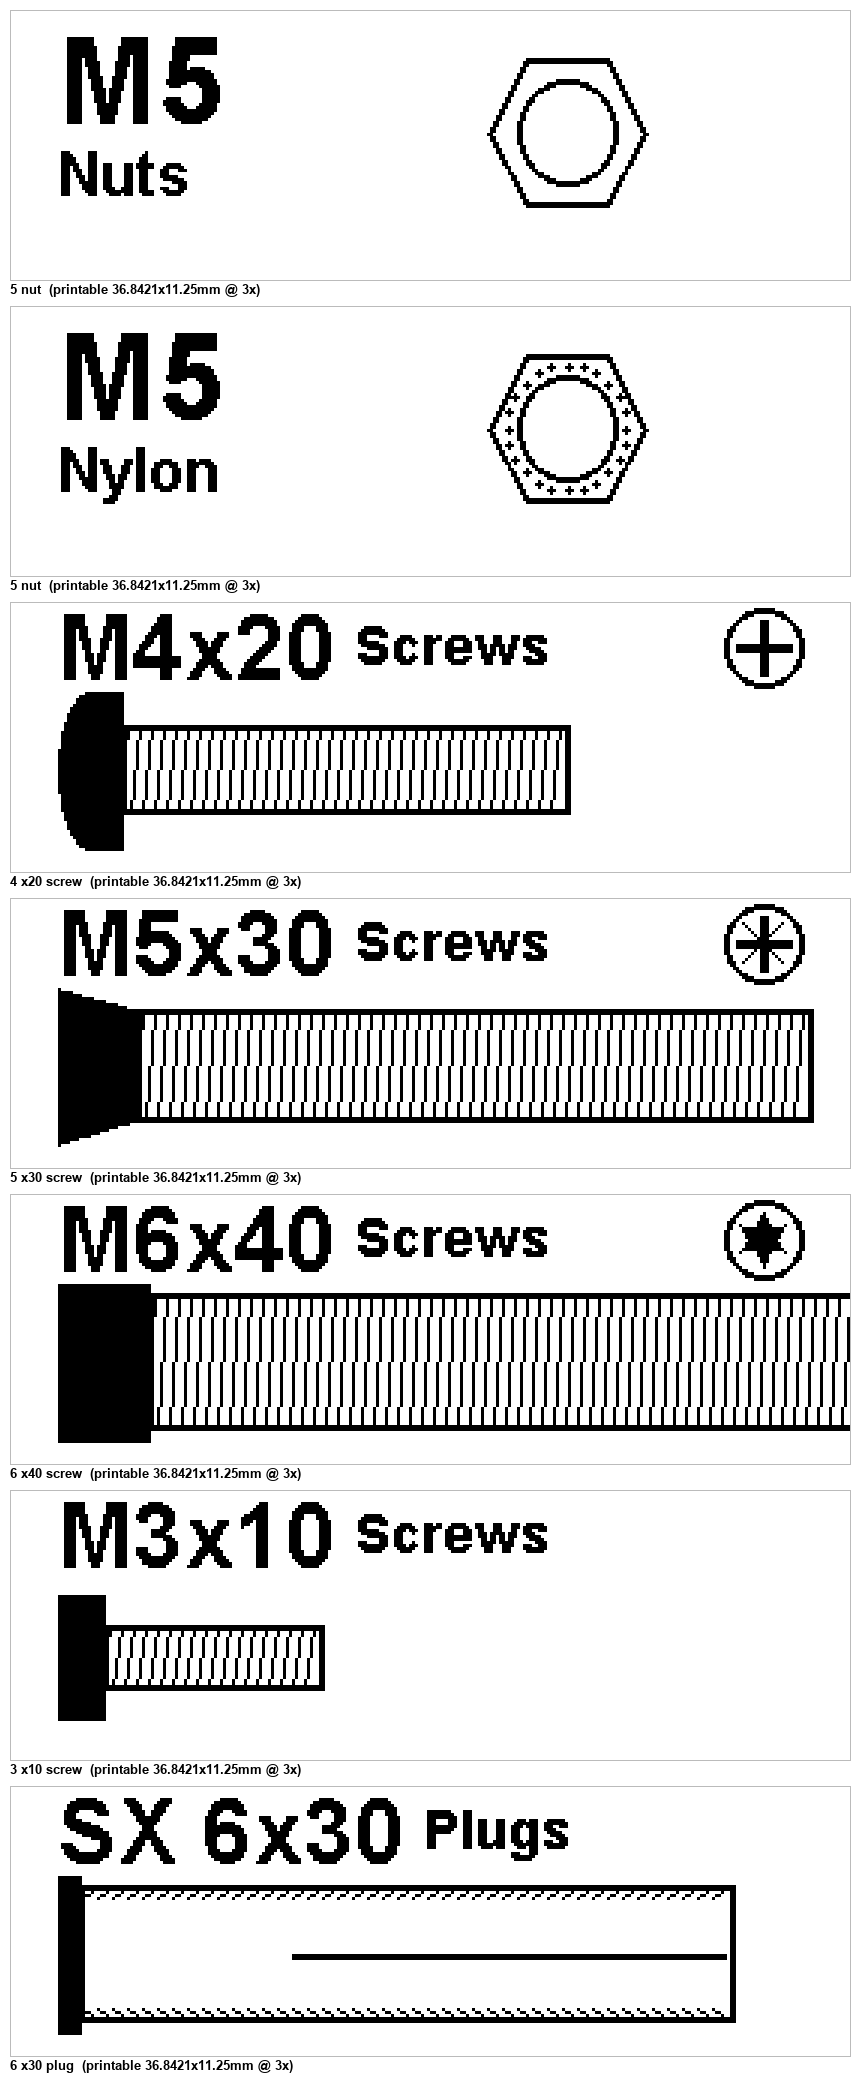
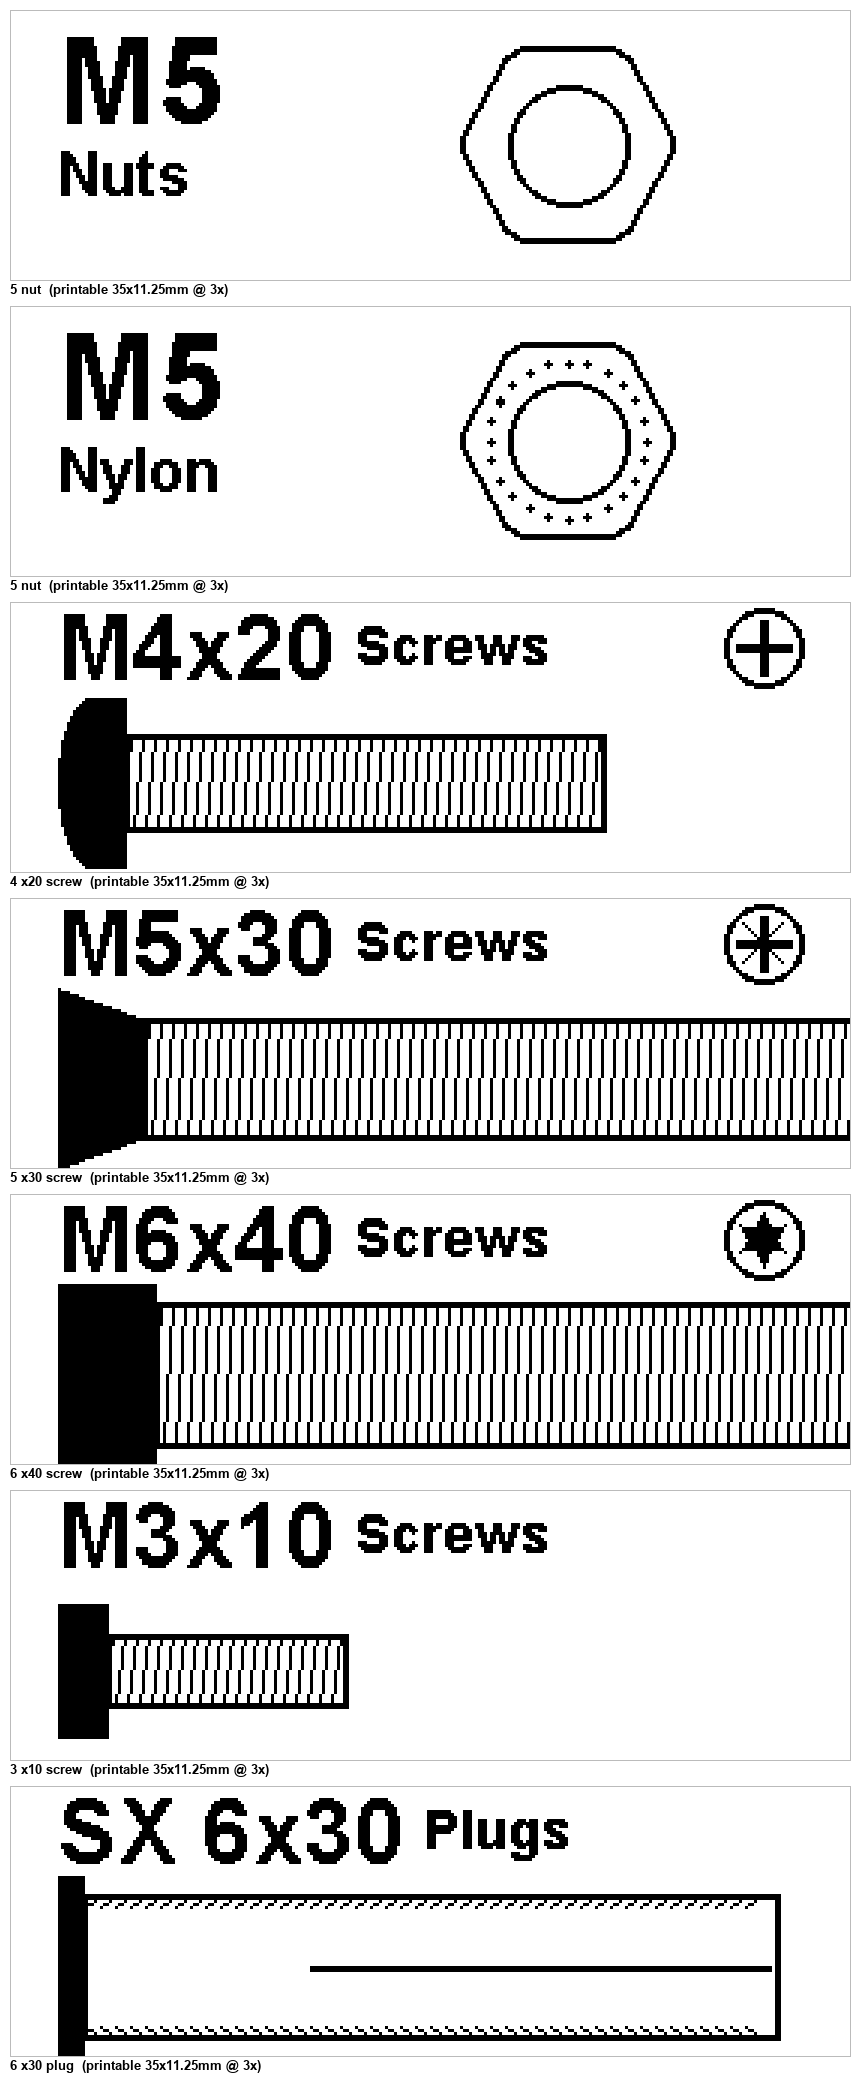
disable TiMini margin trimming, and drop every calibration constant
TiMini trims white margins by default and scales what remains to fill the paper.
These stickers are mostly deliberate white space, so every one was stretched - by
a different factor each time, depending on how much white that label had. Caught
by intercepting the raster actually sent: an M6 nut drawn 76 px across the flats
was arriving as 90 dots, 11.25 mm instead of 9.5. With trimming off it arrives as
76 dots, exactly the PNG.

That one default explains every sizing problem chased so far, and every constant
added to correct for one was compensating for a distortion that varied per label.
All of them are now gone:

- print.py passes --no-trim-side-margins --no-trim-top-bottom-margins
- FEED_CAL / FEED_DPMM removed; both axes are simply DPMM, so the anisotropic
  drawing collapses and _arc_pts takes one radius
- NUT_SCALE removed; nuts are nominal ISO again
- LINE_BLEED removed; verified on paper that an M3 nut and M3x8 screw measure
  right with no compensation at all
- BOT removed; content is centred on the full label height

What is left is two printer facts (DPMM, W/H - both in TiMini's model data), ISO
dimension tables, the nut corner chamfer, and layout. Nothing fitted.

diff --git a/gen.py b/gen.py
@@ -1,8 +1,12 @@
 """Generate actual-size nut / screw / wall-plug organisation stickers.
 
-Sized for a 12 x 40 mm thermal label on the Orgstra S001: the printable area is
-280 x 90 dots at 8 dot/mm, so a fastener is drawn 1 px per dot and comes off the
-printer true to size. Anything bigger than the label runs off the edge and is cut.
+Everything is drawn at nominal ISO size, 1 px per dot, so it comes off the printer
+true to size. That needs only two facts about the printer — its head resolution
+(DPMM) and its printable area (W, H) — both of which TiMini already knows per
+model. There are no calibration fudge factors; if a print measures wrong, the
+cause is upstream (see the margin-trimming note in print.py), not here.
+
+Anything bigger than the label runs off the edge and is cut, by design.
 """
 from __future__ import annotations
 import math
@@ -10,29 +14,20 @@ from string import ascii_uppercase
 from PIL import Image, ImageDraw, ImageFont
 
 # ---------------------------------------------------------------- geometry ---
+# The only printer-specific values. For the Orgstra S001: a 203 dpi head, and a
+# 12 x 40 mm label whose printable area is 280 x 90 dots — the head is 96 dots but
+# the protocol reserves a 6-dot pad, and the label's first ~5 mm is a feed dead
+# zone. Both are in TiMini's printer_models / printer_paper_presets data.
 
 DPMM = 8                                 # print head resolution, dots per mm
 W, H = 280, 90                           # printable label, length x head, in dots
 BLACK, WHITE = 0, 1
 
-# The paper advance runs slightly slower than the head, so the length axis is
-# drawn at FEED_CAL x DPMM. Calibrated from two printed features that bracket the
-# thermal bleed: a nut hole (inner edge, bleed shrinks it) drawn 67.4 px measured
-# 8.4 mm, and a screw shaft (outer edge, bleed grows it) drawn 96 px measured
-# 13.0 mm. To recalibrate, print a screw and measure the shaft:
-#     FEED_CAL = nominal_mm / (measured_mm - LINE_BLEED / DPMM)
-FEED_CAL = 0.95
-FEED_DPMM = DPMM * FEED_CAL              # dots per mm along the label length
-LEN_MM, HEAD_MM = W / FEED_DPMM, H / DPMM        # 36.8 x 11.25 mm printable
+LEN_MM, HEAD_MM = W / DPMM, H / DPMM     # 35 x 11.25 mm printable
 
-# A 2-px outline plus thermal bleed adds this much to any edge-measured size.
-# Outer edges (shaft, hex flats) are drawn smaller by it, inner edges (the nut
-# hole) larger, so both measure true on paper.
-LINE_BLEED = 3
-
+# Layout, in dots. Tuned by eye for a 90-dot-tall label; a very different label
+# would want these and the font sizes adjusted to suit.
 PAD = 2 * DPMM        # left/right margin
-BOT = 8               # bottom breathing room; the protocol top-pad shifts
-                      # everything down, so content this close would clip
 BAND_TOP = 30         # top of the drawing band, below the title row
 NUT_CENTRE_FRAC = 1 / 3   # nut centre sits this far in from the right edge, as a
                           # fraction of the length: right-aligning put small nuts
@@ -48,17 +43,17 @@ WAF = {1: 2.5, 1.6: 3.2, 2: 4, 2.5: 5, 3: 5.5, 4: 7, 5: 8, 6: 10,
 HEX_BOLT = {2: (4, 1.4), 2.5: (5, 1.7), 3: (5.5, 2.0), 4: (7, 2.8), 5: (8, 3.5),
             6: (10, 4.0), 8: (13, 5.3), 10: (17, 6.4), 12: (19, 7.5), 16: (24, 10.0)}
 
-# A hex drawn to ISO reads larger than the real nut held against it: the outline
-# sits outside the shape, thermal bleed thickens it, and the drawn corners are
-# sharp where a real nut's are chamfered. Scaled down rather than offset by a
-# fixed amount, which at M2 would leave the hex no bigger than its own hole.
-# Anchored on M6 measured against real nuts: 10 mm flats drawn as 8.
-NUT_SCALE = 0.8
+# A real nut's corners are chamfered: ISO 4032 gives the across-corners size e as
+# ~1.1055 x the flats, where a sharp hexagon would be 1.1547 x. Drawing the
+# chamfer (a 12-gon: six flats, six corner cuts) keeps the outline true in both
+# directions instead of overhanging by 4% at the corners.
+CHAMFER_RADIUS = 1.1088   # vertex distance, in units of half the flats
+CHAMFER_ANGLE = 4.407     # vertex offset either side of each corner, degrees
 
 
 def nut_waf(m: float) -> float:
-    """Drawn nut width across flats (mm), extrapolated outside the table."""
-    return WAF.get(m, m * 1.6) * NUT_SCALE
+    """Nut width across flats (mm), extrapolated for sizes outside the table."""
+    return WAF.get(m, m * 1.6)
 
 
 def bolt_head(m: float) -> tuple[float, float]:
@@ -98,35 +93,27 @@ def _font(px: int) -> ImageFont.FreeTypeFont:
     return ImageFont.load_default()
 
 
-def _arc_pts(cx, cy, angles, rx, ry):
-    """Points at the given angles (degrees) on an ellipse of radii rx, ry px.
-    Round features use rx > ry so they print circular despite the slower feed."""
-    return [(cx + rx * math.cos(math.radians(a)), cy + ry * math.sin(math.radians(a)))
+def _arc_pts(cx, cy, angles, r):
+    """Points at the given angles (degrees) on a circle of radius r px."""
+    return [(cx + r * math.cos(math.radians(a)), cy + r * math.sin(math.radians(a)))
             for a in angles]
 
 
-def _mm_arc_pts(cx, cy, angles, r_mm):
-    """As _arc_pts, but with the radius given in mm and scaled per axis."""
-    return _arc_pts(cx, cy, angles, r_mm * FEED_DPMM, r_mm * DPMM)
-
-
 def draw_nut(d: ImageDraw.ImageDraw, cx, cy, m, nylon=False):
-    """Hex nut, face on. Hex and hole are both scaled by NUT_SCALE so the icon
-    stays in proportion. The outline is an outer edge and the hole an inner one,
-    so bleed is compensated in opposite directions."""
-    waf, hole = nut_waf(m), m * NUT_SCALE
-    circumradius = (waf - LINE_BLEED / DPMM) / 2 / math.cos(math.radians(30))
-    d.polygon(_mm_arc_pts(cx, cy, range(0, 360, 60), circumradius), outline=BLACK, width=2)
+    """Hex nut, face on, at true ISO size."""
+    waf = nut_waf(m)
+    corners = [60 * k + off for k in range(6)
+               for off in (-CHAMFER_ANGLE, CHAMFER_ANGLE)]
+    d.polygon(_arc_pts(cx, cy, corners, waf * DPMM / 2 * CHAMFER_RADIUS),
+              outline=BLACK, width=2)
 
-    # Radii keep the FEED_DPMM:DPMM ratio so the hole prints round; the bleed
-    # term is a dot-level effect and so is the same on both axes.
-    rx = (hole / 2) * FEED_DPMM + LINE_BLEED / 2
-    ry = (hole / 2) * DPMM + LINE_BLEED / 2
-    d.ellipse([cx - rx, cy - ry, cx + rx, cy + ry], outline=BLACK, width=2)
+    hole_r = m * DPMM / 2
+    d.ellipse([cx - hole_r, cy - hole_r, cx + hole_r, cy + hole_r],
+              outline=BLACK, width=2)
 
     if nylon:
         # nyloc insert: a dotted ring between hole and hex, which reads as grey
-        for x, y in _mm_arc_pts(cx, cy, range(0, 360, 15), (hole / 2 + waf / 2) / 2):
+        for x, y in _arc_pts(cx, cy, range(0, 360, 15), (m + waf) / 4 * DPMM):
             d.ellipse([x - 1, y - 1, x + 1, y + 1], fill=BLACK)
 
 
@@ -140,10 +127,10 @@ def draw_screw(d: ImageDraw.ImageDraw, x0, cy, m, length_mm, band_h, shape="hex"
         csk - flat outer face, tapering into the shaft (countersunk)
     """
     s, k = bolt_head(m)
-    head_w = k * FEED_DPMM
-    head_h = min(s * DPMM - LINE_BLEED, band_h)
-    shaft_h = min(m * DPMM - LINE_BLEED, band_h - 4)
-    shaft_len = length_mm * FEED_DPMM - LINE_BLEED
+    head_w = k * DPMM
+    head_h = min(s * DPMM, band_h)
+    shaft_h = min(m * DPMM, band_h - 4)
+    shaft_len = length_mm * DPMM
     ht, hb = cy - head_h / 2, cy + head_h / 2          # head top/bottom
     st, sb = cy - shaft_h / 2, cy + shaft_h / 2        # shaft top/bottom
 
@@ -164,10 +151,10 @@ def draw_screw(d: ImageDraw.ImageDraw, x0, cy, m, length_mm, band_h, shape="hex"
 def draw_plug(d: ImageDraw.ImageDraw, x0, cy, dia_mm, length_mm, band_h):
     """Wall plug side profile: a collar at the wall face, a ribbed expansion
     sleeve and the expansion slot. Drawn like a screw shaft, with no head."""
-    body_h = min(dia_mm * DPMM - LINE_BLEED, band_h - 4)
-    total = length_mm * FEED_DPMM - LINE_BLEED       # the collar is part of it
-    collar_w = max(3.0, 1.0 * FEED_DPMM)             # ~1 mm lip
-    collar_h = min(dia_mm * 1.3 * DPMM - LINE_BLEED, band_h)
+    body_h = min(dia_mm * DPMM, band_h - 4)
+    total = length_mm * DPMM               # the collar is part of it
+    collar_w = 1.0 * DPMM                  # 1 mm lip
+    collar_h = min(dia_mm * 1.3 * DPMM, band_h)
     top, bot = cy - body_h / 2, cy + body_h / 2
 
     d.rectangle([x0, cy - collar_h / 2, x0 + collar_w, cy + collar_h / 2], fill=BLACK)
@@ -187,7 +174,7 @@ def draw_drive(d: ImageDraw.ImageDraw, cx, cy, r, kind):
     ir = r - 4                                                           # recess
 
     if icon == "hex":
-        d.polygon(_arc_pts(cx, cy, range(30, 360, 60), ir, ir), outline=BLACK, width=2)
+        d.polygon(_arc_pts(cx, cy, range(30, 360, 60), ir), outline=BLACK, width=2)
     elif icon in ("cross", "pozi"):
         d.line([cx - ir, cy, cx + ir, cy], fill=BLACK, width=3)
         d.line([cx, cy - ir, cx, cy + ir], fill=BLACK, width=3)
@@ -198,10 +185,8 @@ def draw_drive(d: ImageDraw.ImageDraw, cx, cy, r, kind):
     elif icon == "slot":
         d.line([cx - ir, cy, cx + ir, cy], fill=BLACK, width=3)
     elif icon == "torx":                         # solid 6-point star
-        pts = []
-        for i in range(12):
-            rr = ir if i % 2 == 0 else ir * 0.5
-            pts += _arc_pts(cx, cy, [i * 30 - 90], rr, rr)
+        pts = [p for i in range(12)
+               for p in _arc_pts(cx, cy, [i * 30 - 90], ir if i % 2 == 0 else ir * 0.5)]
         d.polygon(pts, fill=BLACK)
     elif icon == "square":
         h = ir * 0.8
@@ -221,18 +206,17 @@ def make_label(kind: str, m: float, length: float | None = None,
                shape: str = "hex", drive: str | None = None) -> Image.Image:
     img = Image.new("1", (W, H), WHITE)
     d = ImageDraw.Draw(img)
-    cy = (H - BOT) // 2
 
     if kind == "nut":
         # size and variant stacked tight on the left, hex face on the right
         d.text((PAD, 1), f"M{m:g}", font=_font(40), fill=BLACK)
         d.text((PAD, 43), "Nylon" if shape == "nylon" else "Nuts",
                font=_font(20), fill=BLACK)
-        draw_nut(d, int(W - NUT_CENTRE_FRAC * W), cy, m, nylon=(shape == "nylon"))
+        draw_nut(d, int(W - NUT_CENTRE_FRAC * W), H // 2, m, nylon=(shape == "nylon"))
         return img
 
     # screws and plugs: title row on top, fastener centred in the band below
-    band_cy, band_h = (BAND_TOP + H - BOT) // 2, H - BOT - BAND_TOP
+    band_cy, band_h = (BAND_TOP + H) // 2, H - BAND_TOP
     if kind == "plug":
         _title_row(d, f"{shape + ' ' if shape else ''}{m:g}x{length:g}", "Plugs")
         draw_plug(d, PAD, band_cy, m, length, band_h)
@@ -313,9 +297,7 @@ def describe(spec) -> str:
     kind, m, length, shape, drive = spec
     if kind == "nut":
         variant = " nyloc" if shape == "nylon" else ""
-        # the real nut being labelled, not the NUT_SCALE-reduced drawing
-        return (f"M{m:g}{variant} nut: hex WAF {WAF.get(m, m * 1.6):g} mm, "
-                f"hole Ø{m:g} mm, drawn at {NUT_SCALE:g}x")
+        return f"M{m:g}{variant} nut: hex WAF {nut_waf(m):g} mm, hole Ø{m:g} mm"
     if kind == "plug":
         return (f"{shape + ' ' if shape else ''}{m:g}x{length:g}: "
                 f"wall plug, Ø{m:g}x{length:g} mm")

diff --git a/print.py b/print.py
@@ -52,8 +52,12 @@ class Printer:
         if idle > 0:
             time.sleep(idle)
         # TiMini runs with cwd in its own checkout, so pass an absolute path.
+        # Trimming is ON by default: it crops the white margin off the label and
+        # scales what's left to fill the paper, by a different factor for every
+        # sticker. That silently destroys true-size printing, so it must be off.
         cmd = [sys.executable, "-m", "timiniprint", "--serial", self.serial,
                "--printer-model", self.model, "--paper", self.paper,
+               "--no-trim-side-margins", "--no-trim-top-bottom-margins",
                os.path.abspath(png)]
         try:
             return subprocess.run(cmd, cwd=self.timini).returncode == 0

diff --git a/README.md b/README.md
@@ -9,10 +9,11 @@ on an Orgstra **S001** (Xinye) label printer via
 
 ![examples](examples/preview.png)
 
-> **Note:** the sizing (dot pitch, feed calibration, bleed compensation, printable
-> area) is tuned for the **Orgstra S001**. On other printers the fasteners may come
-> out slightly off — adjust `FEED_CAL`, `DPMM`, `LINE_BLEED`, and the `W`/`H`
-> printable size at the top of `gen.py`, and measure your first sticker.
+> **Other printers:** the only printer-specific values are the head resolution
+> (`DPMM`) and the printable area (`W`, `H`) at the top of `gen.py` — both of which
+> TiMini already knows per model. Set those and the drawings are correct; there are
+> no calibration constants to tune. The layout and font sizes are eyeballed for a
+> 90-dot-tall label, so a very different label shape would want those adjusted too.
 
 ## What it does
 
@@ -20,18 +21,18 @@ on an Orgstra **S001** (Xinye) label printer via
   width-across-flats, screws and wall plugs by real Ø × length. Optional head
   shapes, drive icons, a nyloc variant and a plug kind. Anything larger than the
   label runs off the edge and gets cut — by design.
-- **`print.py`** — prints a folder of stickers on the S001 through the TiMini CLI:
-  one test sticker, you approve, then it prints the rest.
+- **`print.py`** — prints a folder of stickers on the S001 through the TiMini CLI,
+  one at a time, waiting for you between each.
 
-The head axis prints at **8 dot/mm**; the S001's paper advance runs slightly long
-(~7.6 dot/mm), so the generator draws the length axis at `FEED_CAL × 8` and leaves
-the unused label length white. Printed edges also bleed about `LINE_BLEED` (0.375 mm),
-which grows outer dimensions and shrinks inner ones, so both are compensated.
+Both axes print at **8 dot/mm**, so a sticker is drawn 1 px per dot at nominal ISO
+size and the unused label length is left white. No scaling, no fudge factors — if a
+print measures wrong, something upstream is rescaling it:
 
-To calibrate a different printer: print a screw, measure the shaft from the head
-underside to the tip, and set
-
-    FEED_CAL = nominal_mm / (measured_mm - LINE_BLEED / DPMM)
+> **Margin trimming must be off.** TiMini trims white margins by default and scales
+> what's left to fill the label — a different factor for every sticker, since each
+> has a different amount of white. That silently destroys true-size printing.
+> `print.py` passes `--no-trim-side-margins --no-trim-top-bottom-margins`; if you
+> print these PNGs by any other route, pass them yourself.
 
 ## Install
 
@@ -103,25 +104,24 @@ README for pairing).
 
 | Item | Standard |
 |------|----------|
-| Nut hex width-across-flats | ISO 4032 (M3 = 5.5, M4 = 7, M5 = 8, M6 = 10, M8 = 13 mm …), drawn at `NUT_SCALE` |
+| Nut hex width-across-flats | ISO 4032 (M3 = 5.5, M4 = 7, M5 = 8, M6 = 10, M8 = 13 mm …) |
+| Nut across-corners | ISO 4032 `e` — the corners are chamfered, not sharp |
 | Bolt head (WAF × height) | ISO 4017 |
-| Shaft Ø | nominal M-size (edge-measured, bleed-compensated) |
+| Shaft Ø | nominal M-size |
 | Shaft length | the mm value you give (`M5x50` → 50 mm) |
 | Wall plug Ø × length | the values you give (`SX6x30` → Ø6 × 30 mm, collar included) |
 
-Nuts are the exception to true-size: an outlined hex reads bigger than the nut you
-hold against it, because the line sits outside the shape, thermal bleed thickens it
-and the drawn corners are sharp where a real nut's are chamfered. So nuts are drawn
-at `NUT_SCALE` (0.8) — hex and hole together, keeping the proportions of the real
-nut. Raise it toward 1.0 if your printer bleeds less.
+Everything is drawn at nominal size, with no compensation of any kind. Note that nut
+tolerance is one-sided — ISO 4032 allows 9.78–10.00 mm across the flats for M6 — so a
+real nut measures a little under the drawing. Scale `WAF` in `gen.py` if you'd rather
+match your own stock.
 
-For screws the identifying dimensions — **shaft Ø × length** — do print true size;
-the head is a visual cue (drawn ISO hex-bolt size, ~5.5 mm across for M3, and varies in reality
-by head type). The printable area is **36.8 × 11.25 mm** (the S001 head is 12 mm but
-the protocol reserves 6 dots; the label's first ~5 mm is a dead zone), so a nut
-wider than 11.25 mm or a screw longer than ~34 mm runs off the edge — intentional.
-Keep the `tag_90r_90p` preset and, on a new printer, measure your first sticker and
-tune `FEED_CAL` in `gen.py` if the length is off.
+For screws the identifying dimensions — **shaft Ø × length** — print true size; the
+head is a visual cue (drawn ISO hex-bolt size, ~5.5 mm across for M3, and varies in
+reality by head type). The printable area is **35 × 11.25 mm** (the S001 head is
+12 mm but the protocol reserves 6 dots; the label's first ~5 mm is a dead zone), so
+a nut wider than 11.25 mm or a screw longer than ~34 mm runs off the edge —
+intentional. Keep the `tag_90r_90p` preset, and keep margin trimming off.
 
 ## Requirements
 
